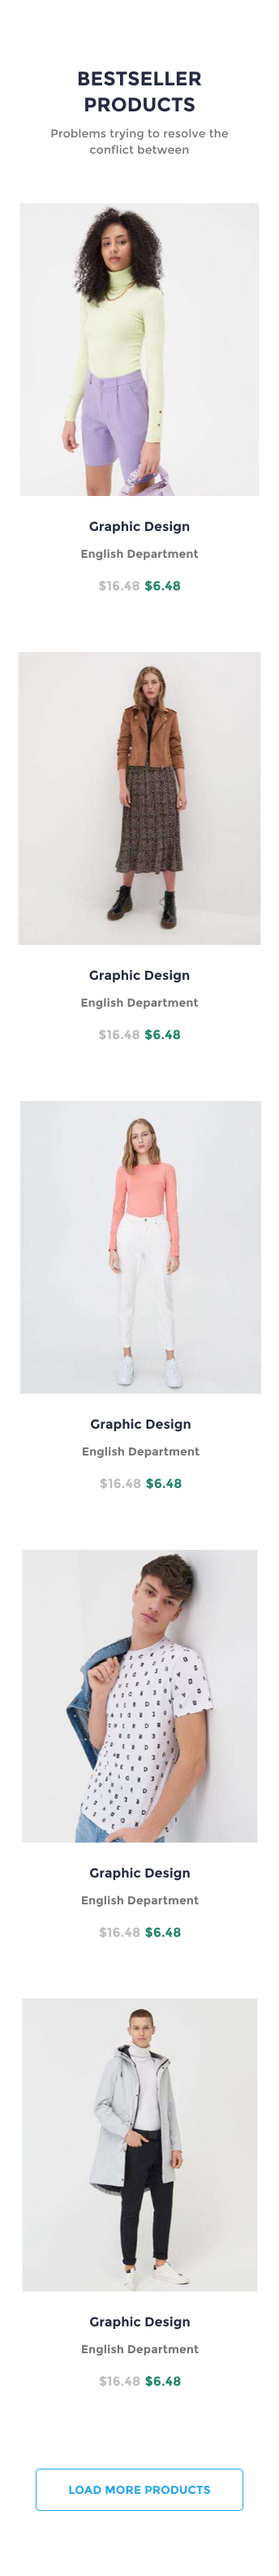
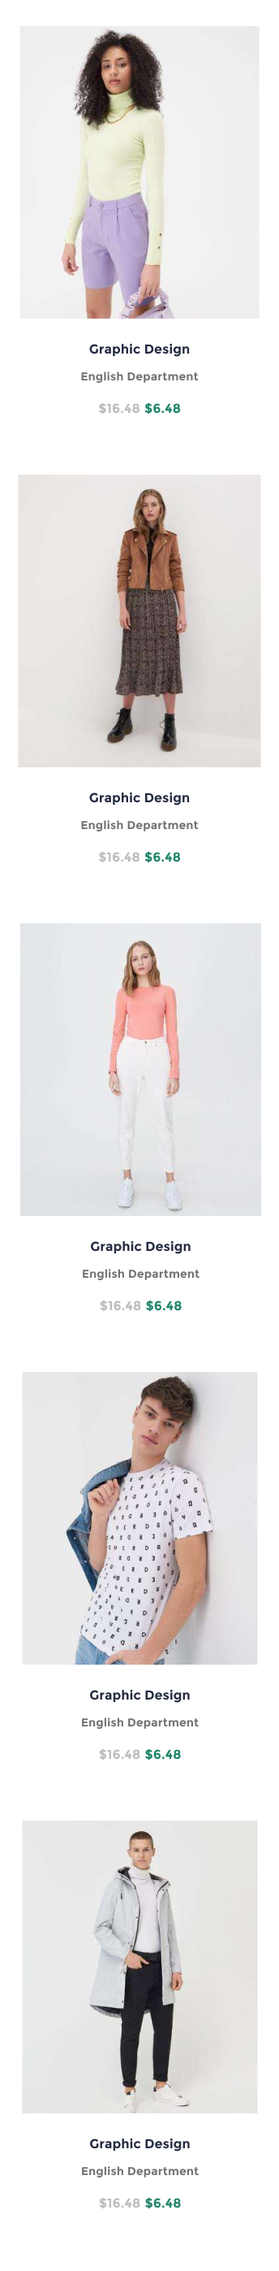
projeto refatorado de acordo com o exemplo do figma

Changed region(s): [[0.0581, 0.0, 0.9302, 0.9964], [0.6977, 0.4048, 0.9593, 0.4359], [0.0581, 0.4048, 0.2326, 0.4359]]

diff --git a/css/estilos.css b/css/estilos.css
@@ -59,13 +59,12 @@
     color: rgb(88, 88, 88);
     font-size: 25px;
   }
-
   .header-section-2 ul li a:hover {
     text-decoration: underline;
     color: rgb(26, 25, 25);
     transition: 0.5s ease-in-out;
   }
-  .first-section {
+  .section {
     display: flex;
     flex-direction: column;
     align-items: center;
@@ -73,135 +72,13 @@
     width: 100%;
     position: relative;
   }
-
-  .first-section h2 {
-    position: absolute;
-    top: 5px;
-    font-size: 2em;
-    color: #252b42;
-  }
-
-  .first-section h3 {
-    position: absolute;
-    top: 40px;
-    font-size: 2em;
-    color: #252b42;
-    left: 10px;
-  }
-  .first-section img {
+  .section img {
     width: 100%;
     height: 100%;
     object-fit: cover;
   }
 
-  .second-section {
-    display: flex;
-    flex-direction: column;
-    align-items: center;
-    justify-content: center;
-    width: 100%;
-    position: relative;
-    padding-top: 10px;
-  }
-  .second-section h2 {
-    position: absolute;
-    top: 15px;
-    left: 50%;
-    transform: translateX(-50%);
-    font-size: 2em;
-    color: #737373;
-  }
-
-  .second-section img {
-    width: 100%;
-    height: 100%;
-    object-fit: cover;
-  }
-
-  .third-section {
-    margin-top: 10px;
-  }
-
-  .prod {
-    display: flex;
-    flex-direction: column;
-    justify-content: center;
-    align-items: center;
-    position: relative;
-    margin: 10px 0;
-    background-color: rgb(13, 13, 204);
-  }
-
-  .prod h3,
-  .prod button {
-    position: absolute;
-  }
-
-  .prod h3 {
-    top: 3px;
-    left: 10px;
-    font-size: 2em;
-    color: white;
-  }
-
-  .prod button {
-    bottom: 10px;
-    right: 5px;
-    background-color: rgb(13, 13, 204);
-    color: white;
-    padding: 15px;
-    font-size: 14px;
-    border-radius: 5px;
-    border: none;
-    cursor: pointer;
-  }
-
-  .prod button:hover {
-    background-color: rgb(11, 11, 114);
-  }
-  .prod img {
-    width: 100%;
-    height: 100%;
-    object-fit: cover;
-  }
-
-  .fourth-section h1 {
-    font-size: 2em;
-    display: flex;
-    justify-content: center;
-    align-items: center;
-    color: #252b42;
-  }
-
-  .maisVendido {
-    display: flex;
-    flex-direction: column;
-    justify-content: center;
-    align-items: center;
-  }
-
-  .maisVendido h2 {
-    margin: 10px 0;
-  }
-  .maisVendido button {
-    margin-top: 10px;
-    padding: 15px;
-    border-radius: 5px;
-    background-color: lightgray;
-    color: black;
-  }
-
-  .maisVendido button:hover {
-    background-color: gray;
-    color: white;
-  }
-
-  .maisVendido img {
-    width: 100%;
-    height: 100%;
-    object-fit: cover;
-  }
-
+ 
   .footer-header {
     display: flex;
     flex-direction: column;
@@ -290,4 +167,11 @@
     background-color: lightgray;
     font-size: 2em;
   }
+}
+
+.header-section {
+  display: flex;
+  justify-content: space-around;
+  align-items: center;
+  padding-top: 10px;
 }

diff --git a/index.html b/index.html
@@ -41,55 +41,27 @@
       </section>
     </header>
     <main>
-      <section class="first-section">
-        <img src="img/cellphone0.jpg" alt="newCollection" />
-        <h2>2024</h2>
-        <h3>Compre seu celular com desconto agora na black friday.</h2>
+      <section class="section">
+        <img src="img/collection.png" alt="newCollection" />
       </section>
-      <section class="second-section">
-        <img src="img/logo.png" alt="logos image" />
-        <h2>Parceiros</h2>
+      <section class="section">
+        <img src="img/logos.png" alt="logos image" />
       </section>
-      <section class="third-section">
-        <section class="prod">
-            <img src="img/cellphone1.jpg" alt="">
-            <h3>Produtos da Semana</h3>
-            <button>Explorar Itens</button>
-        </section>
-        
-        <section class="prod">
-            <img src="img/cellphone2.jpg" height="200px" width="200px" alt="">
-            <h3>Produtos da Semana</h3>
-            <button>Explorar Itens</button>
-        </section>
-        
-        <section class="prod">
-            <img src="img/cellphone3.jpg" alt="">
-            <h3>Produtos da Semana</h3>
-            <button>Explorar Itens</button>
-        </section>
-        
+      <section class="section">
+            <img src="img/bestProductWeek.png" alt="">
       </section>
-      <section class="fourth-section">
-        <h1>Mais vendidos </h1>
-        <section class="maisVendido">
-            <img src="img/maisvendido1.webp" alt="">
-            <h2>Xiaomi Redmi Note 13 Pro 5G Dual SIM 512 GB branco 12 GB RAM</h2>
-            <h3>Preço: 2559.00</h3>
-            <button>Comprar</button>
-        </section>
-        <section class="maisVendido">
-            <img src="img/maisvendido2.jpg" alt="">
-            <h2>Smartphone Motorola Edge 40 Neo 256GB 8GB RAM + 8GB RAM Boost Black Beauty</h2>
-            <h3>Preço: 1.599,00</h3>
-            <button>Comprar</button>
-        </section>
-        <section class="maisVendido">
-            <img src="img/maisvendido3.jpg" alt="">
-            <h2>Realme C67 Dual SIM 256 GB Preto 8 GB RAM</h2>
-            <h3>Preço: 1.199,90</h3>
-            <button>Comprar</button>
-        </section>
+      <section class="section">
+        <img src="img/bestSellerProductsTop.png" alt="">
+        <img src="img/bestSellerProducts.png" alt="">
+      </section>
+      <section class="section">
+        <img src="img/featuredProducts.png" alt="">
+      </section>
+      <section class="section">
+        <img src="img/bestServices.png" alt="">
+      </section>
+      <section class="section">
+        <img src="img/featuredPosts.png" alt="">
       </section>
     </main>
     <footer>
